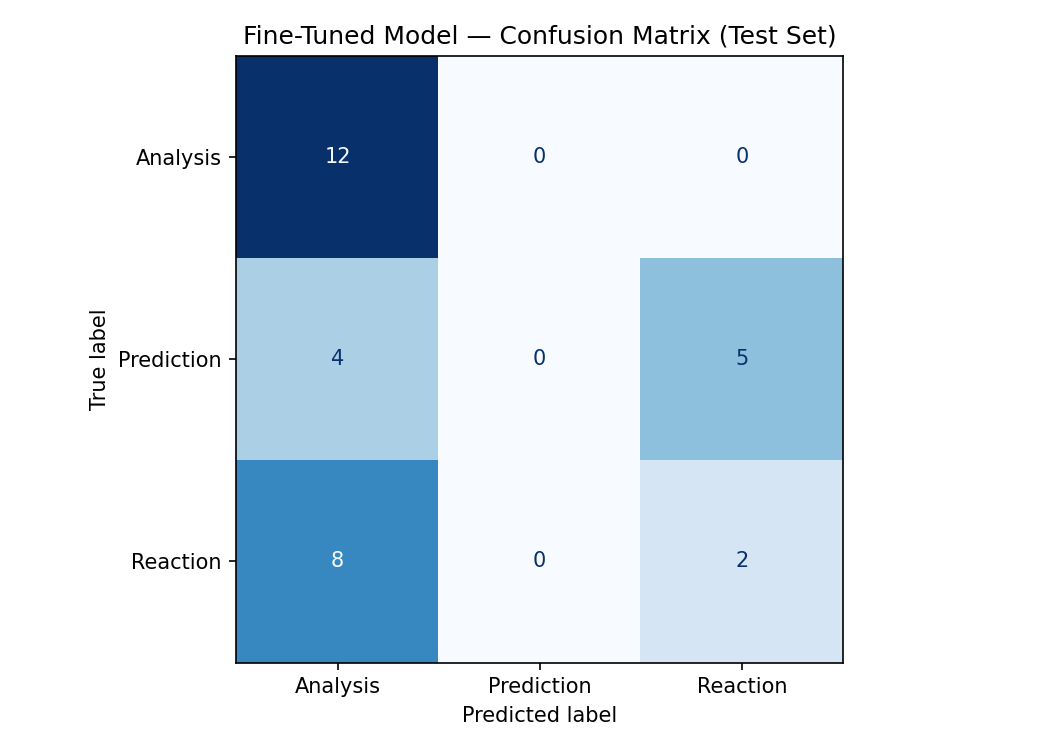
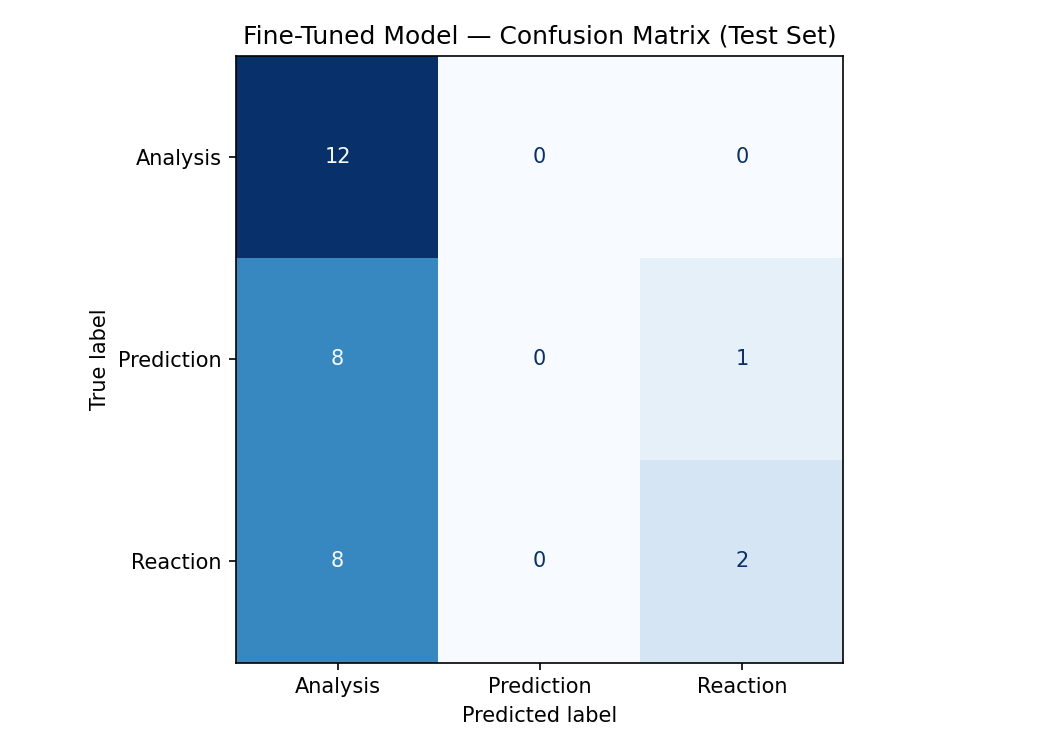
Finalized readme.md and created demo video

Changed region(s): [[0.6095, 0.3373, 0.8229, 0.6133], [0.2133, 0.3373, 0.4267, 0.6133]]

diff --git a/README.md b/README.md
@@ -1,46 +1,46 @@
-# TakeMeter — r/worldcup Text Classification
+# TakeMeter: r/worldcup Text Classification
 
-A 3-class text classifier for Reddit r/worldcup posts: **Analysis**, **Prediction**, **Reaction**. It compares a zero-shot LLM baseline against a fine-tuned DistilBERT model.
+A 3-class text classifier for Reddit r/worldcup posts and comments: **Analysis**, **Prediction**, **Reaction**. It compares a zero-shot LLM baseline against a fine-tuned DistilBERT model.
 
 ---
 
 ## 1. Project Overview
 The goal is to automatically sort r/worldcup posts and comments into three types of soccer discourse:
 
-- **Analysis** — explains or evaluates a past/current situation with reasoning
-- **Prediction** — forecasts a future outcome
-- **Reaction** — expresses emotion or opinion without real reasoning
+- **Analysis**: explains or evaluates a past/current situation with reasoning
+- **Prediction**: forecasts a future outcome
+- **Reaction**: expresses emotion or opinion without real reasoning
 
 This matters because the three represent different ways fans participate, which is useful for moderation and for surfacing higher-information posts from the flood of emotional reactions. The task is single-label 3-class classification.
 
 ---
 
 ## 2. Community Selection
-**r/worldcup** — a forum focused on the FIFA World Cup. It was chosen because users regularly post all three discourse types: tactical **analysis**, **predictions** about upcoming matches, and emotional **reactions** to games and calls. Being tournament-focused, it naturally produces more prediction content (match outlooks, brackets) than a broader forum like r/soccer, making it well-suited to a balanced 3-class problem.
+**r/worldcup** is a forum focused on the FIFA World Cup. It was chosen because users regularly post all three discourse types: tactical **analysis**, **predictions** about upcoming matches, and emotional **reactions** to games and calls. Being tournament-focused, it naturally produces more prediction content (match outlooks, brackets) than a broader forum like r/soccer, making it well-suited to a balanced 3-class problem.
 
 ---
 
 ## 3. Label Taxonomy
 ### Definitions & Examples
 
-**Analysis** — primary purpose is explaining or evaluating a past/current situation with evidence, tactics, stats, or causal reasoning.
+**Analysis**: primary purpose is explaining or evaluating a past/current situation with evidence, tactics, stats, or causal reasoning.
 - "Cristiano Ronaldo breaks 60-year-old record, becomes Portugal's highest goal scorer in World Cup history."
 - "Argentina creates chances for Messi because he leaves his ego in the locker room, while Ronaldo often becomes the focal point of the attack."
 
-**Prediction** — primary purpose is forecasting a future outcome, result, or event. Stays Prediction even when backed by reasoning.
+**Prediction**: primary purpose is forecasting a future outcome, result, or event. Stays Prediction even when backed by reasoning.
 - "They're probably going to beat us, and win the whole tournament."
 - "Mbappé will finish the tournament as the leading scorer."
 
-**Reaction** — primary purpose is expressing emotion, opinion, praise, or frustration without substantial reasoning.
+**Reaction**: primary purpose is expressing emotion, opinion, praise, or frustration without substantial reasoning.
 - "WHAT A GOAL! One of the best so far!"
 - "This referee has been terrible all game."
 
 ### Decision Rules (for mixed posts)
 Classify by **primary communicative purpose**, not the first sentence. Key rules:
-1. **Analysis vs. Prediction** — a future main claim is Prediction (even if reasoned); a forecast that's just the conclusion of an explanation stays Analysis.
-2. **Emotion vs. purpose** — opening with "Wow" doesn't make it Reaction; use Reaction only when emotion is the point.
-3. **Evaluations** — current-form claims are Analysis only if reasoned; bare opinions ("their defense was solid") are Reaction; purely future claims are Prediction.
-4. **Records/milestones** — celebratory delivery (all-caps, exclamations) is Reaction even with a stat; neutral factual reporting is Analysis.
+1. **Analysis vs. Prediction**: a future main claim is Prediction (even if reasoned). A forecast that's just the conclusion of an explanation stays Analysis.
+2. **Emotion vs. purpose**: opening with "Wow" doesn't make it Reaction. Use Reaction only when emotion is the point.
+3. **Evaluations**: current-form claims are Analysis only if reasoned; bare opinions ("their defense was solid") are Reaction; purely future claims are Prediction.
+4. **Records/milestones**: celebratory delivery (all-caps, exclamations) is Reaction even with a stat; neutral factual reporting is Analysis.
 
 *(Full rule set in `planning.md`.)*
 
@@ -60,7 +60,7 @@ Classify by **primary communicative purpose**, not the first sentence. Key rules
 | Prediction | 55  | 27.2% |
 | **Total**  | 202 | 100% |
 
-All classes stay above the 20% floor. The plan targeted a balanced ~70/65/70; Prediction ended up smallest at 27.2% (see §12).
+All classes stay above the 20% floor. The plan targeted a balanced ~70/65/70; Prediction ended up smallest at 27.2%.
 
 ### Difficult-to-Label Cases
 1. **"One of the best so far. Wouldn't be surprised to see it in the top 10 goals at the end of the tournament."** → **Prediction.** Opens with an evaluation, but the main point forecasts the goal's final ranking.
@@ -71,10 +71,47 @@ All classes stay above the 20% floor. The plan targeted a balanced ~70/65/70; Pr
 
 ## 5. Baseline Model (Zero-Shot LLM)
 - **Model:** Groq `llama-3.3-70b-versatile` (`temperature=0`, `max_tokens=20`).
-- **Prompt:** one `SYSTEM_PROMPT` with the task, the three definitions, one example per label, and an instruction to output only the label name. Each post is sent as `"Classify this post:\n\n{text}"`.
+- **Prompt:** one `SYSTEM_PROMPT` with the task, the three definitions, one example per label, tie-breaking rules, and an instruction to output only the label name (full text below). Each post is sent as the user message `"Classify this post:\n\n{text}"`.
 - **Collection:** `classify_with_groq(text)` calls the API; output is stripped and matched case-insensitively to a label, else `None`. **31/31 (100%)** responses were parseable.
 
-### Results — 61.3% accuracy
+<details>
+<summary>Full <code>SYSTEM_PROMPT</code></summary>
+
+```
+You are classifying Reddit posts from the r/worldcup community.
+Your task is to assign each post exactly one label.
+
+Labels:
+
+Analysis:
+A post whose primary purpose is explaining or evaluating a current or past soccer
+situation using tactical reasoning, statistics, historical comparisons, specific
+observations, or causal explanation.
+Example: Ghana cannot win with this defensive structure. They will have to change
+for the knockout stage.
+
+Prediction:
+A post whose primary purpose is forecasting a future outcome, performance, result,
+or event involving teams, players, or the tournament. This includes predictions
+even if supported by evidence or reasoning.
+Example: Mbappé will finish as the top scorer in the tournament.
+
+Reaction:
+A post whose primary purpose is expressing emotion, excitement, disappointment,
+praise, frustration, or surprise without substantial explanatory reasoning.
+Example: WHAT A GOAL! This match is unbelievable!
+
+IMPORTANT RULES:
+- Choose ONLY ONE label.
+- If the post is about the future outcome → Prediction.
+- If the post explains a current or past situation → Analysis.
+- If the post is mainly emotional or opinionated without reasoning → Reaction.
+- Do NOT explain your answer.
+- Output ONLY one word exactly: Analysis | Prediction | Reaction
+```
+</details>
+
+### Results: 61.3% accuracy
 
 | Class | Precision | Recall | F1 |
 |-------|-----------|--------|------|
@@ -88,49 +125,57 @@ Best on Prediction (future-oriented language is easy for a large LLM); weakest o
 
 ## 6. Fine-Tuning Approach
 - **Base model:** `distilbert-base-uncased` (`AutoModelForSequenceClassification`, `num_labels=3`).
-- **Data:** 202 examples, stratified **70/15/15** split → **~141 train / ~30 val / 31 test**.
+- **Data:** 202 examples, stratified **70/15/15** split into **~141 train / ~30 val / 31 test**.
 - **Tokenization:** `AutoTokenizer`, `truncation=True`, `max_length=256`, `DataCollatorWithPadding`.
-- **Training:** HuggingFace `Trainer`. Predictions come from a softmax over the logits (also gives the confidence score).
+- **Training:** HuggingFace `Trainer`, evaluating each epoch (`eval_strategy="epoch"`) and keeping the **best checkpoint by validation accuracy** (`load_best_model_at_end=True`). Predictions come from a softmax over the logits (also gives the confidence score).
 
 ### Hyperparameters
-Learning rate `2e-5`, `3` epochs, batch size `16`, max length `256` — the standard DistilBERT fine-tuning defaults: a low LR avoids wiping the pretrained weights, few epochs limit overfitting on a small dataset, and 256 tokens covers Reddit-length posts.
+Learning rate `2e-5`, `3` epochs, batch size `16`, `weight_decay=0.01`, `warmup_steps=50`, max length `256`. These are the standard DistilBERT fine-tuning defaults, each chosen for a small dataset:
+
+- **Learning rate `2e-5`:** the standard BERT-family starting point, low enough to avoid wiping the pretrained weights.
+- **3 epochs:** few passes limit overfitting on ~141 training examples; more epochs would memorize the set.
+- **Batch size `16`:** fits a T4 GPU comfortably (drop to 8 on OOM).
+- **`warmup_steps=50` + `weight_decay=0.01`:** ramp the LR in gently and regularize, both standard stabilizers for small-data fine-tuning.
+- **Max length `256`:** covers Reddit-length posts without wasting compute on padding.
+
+Best checkpoint is selected on validation accuracy, so the reported model is the best of the 3 epochs rather than the last.
 
 ---
 
 ## 7. Evaluation Results
 
-### Fine-Tuned Model — 45.2% accuracy (14/31)
+### Fine-Tuned Model: 45.2% accuracy (14/31)
 
 | Class | Precision | Recall | F1 | Support |
 |-------|-----------|--------|------|---------|
-| Analysis   | 0.50 | 1.00 | 0.67 | 12 |
+| Analysis   | 0.43 | 1.00 | 0.60 | 12 |
 | Prediction | 0.00 | 0.00 | 0.00 | 9 |
-| Reaction   | 0.29 | 0.20 | 0.24 | 10 |
+| Reaction   | 0.67 | 0.20 | 0.31 | 10 |
 
 ### Baseline vs. Fine-Tuned
 
 | Metric | Baseline (Groq) | Fine-Tuned (DistilBERT) |
 |--------|-----------------|--------------------------|
 | Accuracy | **61.3%** | 45.2% |
-| Analysis F1   | 0.58 | 0.67 |
+| Analysis F1   | 0.58 | 0.60 |
 | Prediction F1 | 0.71 | 0.00 |
-| Reaction F1   | 0.57 | 0.24 |
+| Reaction F1   | 0.57 | 0.31 |
 
-**Summary:** the fine-tuned model **regressed by ~16 points**. With only ~141 training examples, it collapsed toward the majority class — predicting Analysis for 24/31 posts and **never predicting Prediction** (F1 = 0.00). The 70B zero-shot LLM already understood all three classes without training. **None** of the planning.md success targets (≥75% accuracy, ≥0.70 F1 per class, +5 pts over baseline) were met; for this dataset size the baseline is the stronger classifier.
+**Summary:** the fine-tuned model **regressed by ~16 points**. With only ~141 training examples, it collapsed toward the majority class, predicting Analysis for 28/31 posts and **never predicting Prediction** (F1 = 0.00). The 70B zero-shot LLM already understood all three classes without training. **None** of the planning.md success targets (≥75% accuracy, ≥0.70 F1 per class, +5 pts over baseline) were met; for this dataset size the baseline is the stronger classifier.
 
 ---
 
-## 8. Confusion Matrix — Fine-Tuned Model
+## 8. Confusion Matrix: Fine-Tuned Model
 Rows = true, columns = predicted. (See also `confusion_matrix.png`.)
 
 | True \ Pred | Analysis | Prediction | Reaction | Total |
 |-------------|----------|------------|----------|-------|
 | Analysis    | 12 | 0 | 0 | 12 |
-| Prediction  | 4  | 0 | 5 | 9  |
+| Prediction  | 8  | 0 | 1 | 9  |
 | Reaction    | 8  | 0 | 2 | 10 |
-| **Total**   | 24 | 0 | 7 | 31 |
+| **Total**   | 28 | 0 | 3 | 31 |
 
-The Prediction column is entirely zero — the model never predicts it. Most Reaction posts (8/10) and several Prediction posts (4/9) are pulled into Analysis, which gets perfect recall (1.00) but poor precision (0.50).
+The Prediction column is entirely zero, so the model never predicts it. Almost everything is pulled into Analysis: 8/9 Prediction posts and 8/10 Reaction posts, so Analysis gets perfect recall (1.00) but poor precision (0.43). Only 3 posts are predicted Reaction, and Prediction is never assigned.
 
 ---
 
@@ -139,65 +184,76 @@ The Prediction column is entirely zero — the model never predicts it. Most Rea
 ### 9.1 Error Patterns (AI-assisted, then verified)
 I pasted the confusion matrix and misclassified posts into an LLM to surface error themes, then checked each against the matrix:
 
-- **Prediction is never produced** — verified (column = 0); true Predictions split 4→Analysis, 5→Reaction.
-- **Reaction absorbed into Analysis** — verified (8/10 Reactions → Analysis).
-- **Overall collapse toward Analysis** — verified (24/31 predicted Analysis).
-- **Near-chance confidence** — all 17 wrong predictions scored 0.34–0.38, barely above the 0.33 chance floor. The model isn't confidently wrong; it's essentially guessing.
+- **Prediction is never produced:** verified (column = 0); true Predictions go 8 to Analysis, 1 to Reaction.
+- **Reaction absorbed into Analysis:** verified (8/10 Reactions predicted Analysis).
+- **Overall collapse toward Analysis:** verified (28/31 predicted Analysis).
+- **Near-chance confidence:** all 17 wrong predictions scored 0.35–0.40, barely above the 0.33 chance floor. The model isn't confidently wrong; it's essentially guessing.
 
-**Corrected:** the LLM called this a "Prediction → Analysis collapse." The matrix shows Predictions actually go slightly more to Reaction (5) than Analysis (4), so the accurate claim is that **the Prediction label is never assigned at all** — I discarded the directional wording.
+**Verification note:** the LLM called this a "Prediction to Analysis collapse." I checked it against the matrix and it **held**. 8 of 9 Predictions land in Analysis (the 9th in Reaction), so the collapse is real and the Prediction label is never assigned at all.
 
 ### 9.2 Misclassified Examples
 
-**1. "Colombia gonna go 1st in group K"** — true **Prediction**, predicted **Analysis** (0.35)
+**1. "Colombia gonna go 1st in group K"** (true **Prediction**, predicted **Analysis**, 0.36)
 A casual forecast with no explicit "will" that names a team and standing, so it reads as descriptive. **Data problem, not labeling:** Prediction was the smallest class with few informal forecasts. *Fix:* more casual, low-modal Prediction examples.
 
-**2. "Korea winning the wc"** — true **Prediction**, predicted **Reaction** (0.37)
-Four words, no reasoning, almost no signal, so the model guesses. **Post-length/data problem.** *Fix:* more short Prediction examples; ultra-short posts may stay ambiguous without context.
+**2. "Korea winning the wc"** (true **Prediction**, predicted **Analysis**, 0.35)
+Four words, no reasoning, almost no signal, and with Prediction never assigned it defaults to the majority class. **Post-length/data problem.** *Fix:* more short Prediction examples; ultra-short posts may stay ambiguous without context.
 
-**3. "Unbelievable match!! Two GREAT Team"** — true **Reaction**, predicted **Analysis** (0.34)
+**3. "Unbelievable match!! Two GREAT Team"** (true **Reaction**, predicted **Analysis**, 0.35)
 All-caps and exclamations make this a textbook Reaction, yet the model still chose Analysis at chance confidence. **Model/data problem:** the Analysis majority bias overrides even strong emotional cues. *Fix:* more Reaction examples and/or class rebalancing.
 
 ---
 
 ## 10. Sample Classifications (Fine-Tuned Model)
-Five posts run through the fine-tuned model:
 
 | # | Text | Predicted | Confidence | Correct? |
 |---|------|-----------|------------|----------|
-| 1 | "Colombia gonna go 1st in group K" | Analysis | 0.35 | ✗ (true: Prediction) |
-| 2 | "Korea winning the wc" | Reaction | 0.37 | ✗ (true: Prediction) |
-| 3 | "Unbelievable match!! Two GREAT Team" | Analysis | 0.34 | ✗ (true: Reaction) |
-| 4 | "Good Luck against Argentina (you're gonna need it)." | Reaction | 0.36 | ✗ (true: Prediction) |
-| 5 | "I have a feeling that Cape Verde will beat Saudi Arabia." | Reaction | 0.35 | ✗ (true: Prediction) |
+| 1 | "Tunisia had completely lost the will to fight after conceding the third goal." | Analysis | 0.42 | ✓ (true: Analysis) |
+| 2 | "Whatta match it was!!" | Reaction | 0.35 | ✓ (true: Reaction) |
+| 3 | "Colombia gonna go 1st in group K" | Analysis | 0.36 | ✗ (true: Prediction) |
+| 4 | "Unbelievable match!! Two GREAT Team" | Analysis | 0.35 | ✗ (true: Reaction) |
+| 5 | "I have a feeling that Cape Verde will beat Saudi Arabia and move to the next stage." | Analysis | 0.38 | ✗ (true: Prediction) |
 
-Confidences are uniformly low (0.34–0.37, vs a 0.33 floor) — the model never commits, mirroring the collapsed boundary.
+**Correct example (row 1):** "Tunisia had completely lost the will to fight after conceding the third goal" is a past-tense, causal evaluation of what happened in a match. This is the explanatory structure the model learned to map to Analysis, so it lands right at its highest confidence (0.42).
 
-**Why a correct prediction is reasonable:** The model correctly classified **all 12 true-Analysis posts** in the test set (Analysis recall = 1.00). These predictions are reasonable because genuine Analysis posts carry exactly the explanatory, tactical, reasoning-heavy structure the model over-learned as its "Analysis" signal — so when a post really does explain or evaluate a situation, the model's bias lines up with the correct label. _(Add one specific true-Analysis→Analysis post + its confidence from the notebook to anchor this.)_
+The rest illustrate the collapse: row 2 is the rare Reaction the model gets (only 3/31), while the three misses (rows 3–5), two forecasts and one all-caps Reaction, all get swept into Analysis because Prediction is never assigned. Confidences stay low across the board (0.35–0.42, vs a 0.33 floor); even the correct predictions barely clear chance, so the model is never really committing.
 
 ---
 
-## 11. Reflection — Intended vs. Learned Behavior
-The taxonomy is defined by **intent** (Analysis explains, Prediction forecasts, Reaction emotes). The model learned something shallower — a **surface heuristic**: explanatory-looking text → Analysis, otherwise lean Reaction. Prediction (about a claim's *direction in time*, not its vocabulary) was never captured.
+## 11. Reflection: Intended vs. Learned Behavior
+The taxonomy is defined by **intent** (Analysis explains, Prediction forecasts, Reaction emotes). The model learned something shallower, a **surface heuristic**: default to Analysis, with only the most overtly emotional posts occasionally tipping to Reaction (just 3/31). Prediction (about a claim's *direction in time*, not its vocabulary) was never captured.
 
 - **Learned well:** structured, descriptive commentary (Analysis recall = 1.00).
 - **Overfit to:** the "informational structure = Analysis" cue and the majority class; with ~141 examples, defaulting to Analysis was the cheapest way to cut loss.
 - **Missed:** forecasting intent (Prediction collapsed) and emotion-vs-evaluation (8/10 Reactions read as Analysis); short posts were hardest.
 
-**In one line:** I intended a 3-way *intent* classifier but got a 2-way *register* classifier (informational vs. emotional) with no room for Prediction.
+I intended a 3-way *intent* classifier but got a 2-way *register* classifier (informational vs. emotional) with no room for Prediction.
 
 ---
 
 ## 12. Spec Reflection
-- **Helped:** the decision rules in `planning.md` kept annotation consistent on the hard boundaries (Analysis-vs-Prediction forecasts, Reaction-vs-Analysis emotion), which would otherwise have been labeled inconsistently.
-- **Diverged:** the plan targeted a balanced ~70/65/70, but Prediction came in smallest at 27.2% (55 examples). That imbalance plus the small dataset likely caused the model to never learn Prediction (F1 = 0.00).
+Where the `planning.md` spec helped and where reality diverged from it:
+
+**Helped:**
+- **Decision rules** kept annotation consistent on the hard boundaries (Analysis-vs-Prediction forecasts, Reaction-vs-Analysis emotion) that would otherwise have been labeled by gut feel. The three difficult cases (§4) were resolved directly by the rules I wrote in advance.
+- **The 20% floor guardrail** forced a course-correction: when Prediction lagged, the pre-committed minimum sent me back to prediction threads to top it up, so the class stayed usable (27.2%) rather than degenerating.
+- **Pre-committing to manual annotation and to verifying AI patterns** kept the process honest. Because the spec said "no LLM labels" and "check every suggested error pattern," I verified the LLM's "Prediction to Analysis collapse" claim against the matrix before using it (it held, 8/9) rather than copying it in unchecked (§9.1).
+
+**Diverged:**
+- **Class balance:** the plan targeted ~70/65/70, but Prediction came in smallest at 27.2% (55 examples). Even sampling prediction-focused threads didn't fully close the gap, and that imbalance plus the small dataset likely drove the model to never learn Prediction (F1 = 0.00).
+- **Success criteria:** none of the three targets (≥75% accuracy, ≥0.70 F1 per class, +5 pts over baseline) were met. The fine-tuned model landed at 45.2% and regressed ~16 pts. In hindsight those bars assumed fine-tuning would beat a 70B zero-shot model, which ~141 examples were never going to support.
+- **Hypothesis was wrong:** I expected fine-tuning to *sharpen* the Analysis-vs-Reaction and mixed-Prediction boundaries. Instead the model collapsed toward the majority class, the opposite of the improvement I planned for.
 
 ---
 
 ## 13. AI Usage Disclosure
-**Instance 1 — Tooling (Claude Code).** Directed it to build the data/annotation tools. It produced `add_examples.py` (batch import, formatting, dedup) and `annotate.py` (manual labeling with auto-save/resume/distribution tracking). *Changed/overrode:* _[note any edits you made]._ No labels were auto-assigned.
 
-**Instance 2 — Label stress-testing (LLM).** Gave it the definitions and edge cases and asked for borderline examples (reasoned forecasts, emotion-vs-tactics, record announcements). Used them to tighten the rules around primary intent and forecasts embedded in analysis.
+**1. Tooling (Claude Code).** Directed it to build the data/annotation tools. It produced `add_examples.py` (batch import, formatting, dedup) and `annotate.py` (one-at-a-time manual labeling with notes, auto-save, resume, and live distribution tracking). It wrote the scripts; it never assigned a label.
 
-**Annotation:** no LLM labeled the final dataset — all 202 examples were labeled by hand in `annotate.py`. AI was used only for tooling and label design.
+**2. Label stress-testing (LLM).** Gave it the definitions and edge cases and asked for borderline examples (reasoned forecasts, emotion-vs-tactics, record announcements). Where an example was hard to classify confidently, I revised the definitions, which is what tightened the rules around primary intent and forecasts embedded in analysis.
+
+**3. Failure analysis (LLM).** Pasted the confusion matrix and misclassified posts in and asked for common error patterns. I **verified every suggested pattern against the matrix** before using it (e.g. the "Prediction to Analysis collapse" claim held, since 8 of 9 Predictions land in Analysis) rather than reporting the LLM's themes unchecked.
+
+**4. Annotation (explicitly *not* AI).** No LLM labeled the final dataset. All 202 examples were labeled by hand in `annotate.py` per the definitions and decision rules, so I fully owned the classification boundaries. AI touched tooling, label design, and error analysis but never the labels themselves.
 
 ---